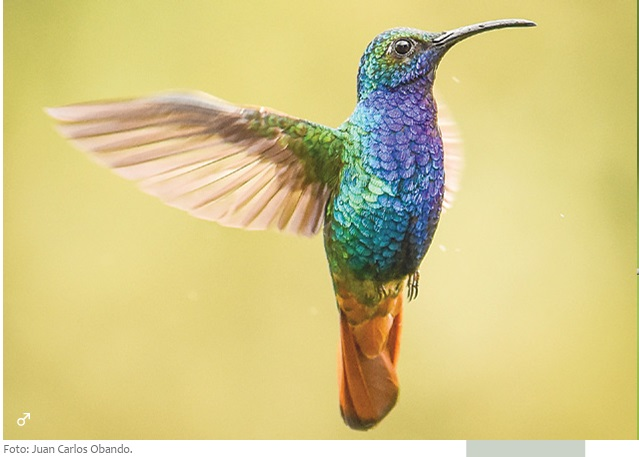
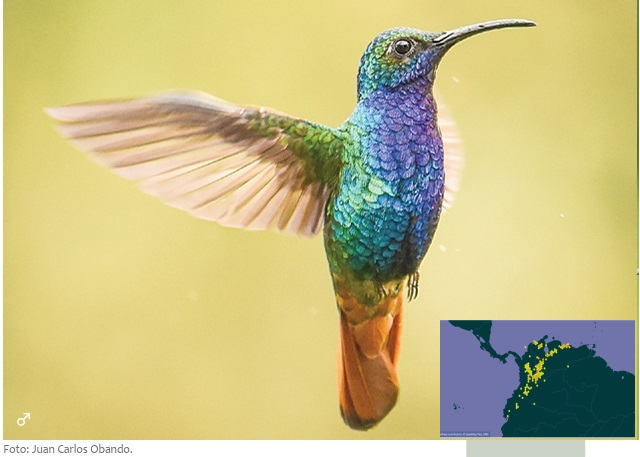
Optimizacion de pagina web de inicio

diff --git a/index.html b/index.html
@@ -11,7 +11,11 @@
 <body>
 	<header id="cabeceraweb">
 
-		<h1>BirdCode - Bioinformática y bilinguismo en educación básica</h1>
+		<!--<figure>
+			<img src="Imagenes/BirdCode-logo.png"/>
+		</figure>-->
+
+		<h1>BirdCode - Bioinformática y bilingüismo en educación básica</h1>
 		<p id="Idioma"><a href="Home.html" target="_blank">English</a></p>
 		
 	</header>
@@ -48,19 +52,56 @@
 
 		<article>
 
-			<header>
-				<h2>Valor económico de la biodiversidad</h2>
-			</header>
-
-			<p>La biota y los ecosistemas representan una forma de riqueza, la riqueza biológica. Así, la variedad de genes, especies, comunidades, ecosistemas y paisajes conforman la biodiversidad de la tierra, la cual sostiene a la vida humana y sus actividades económicas. Por varias décadas, el desarrollo económico ha sido una de las causas del deterioro del planeta, con la consecuente pérdida de diversidad biológica. Los recursos que se obtienen de la explotación de bosques, mares, tierras cultivadas, fauna silvestre y extracción de principios activos de medicamentos, entre otros, han sido fundamentales en la construcción del mundo actual. Es hasta muy recientemente que se ha tomado consciencia acerca de la importancia que tienen los servicios que presta la biodiversidad con relación a la regulación del clima, agua, suelos, nutrientes, curso de los ciclos biogeoquímicos, control de plagas, procesos de polinización, etc. De ahí que se haya tenido que analizar la problemática y realizar propuestas sobre el valor económico de la biodiversidad, las cuales serán sin duda insumos fundamentales en la toma de decisiones en el mercado internacional y la conservación de la naturaleza.</p>
-
-			<p>En la actualidad se le ha dado un valor económico a la biodiversidad desde varias perspectivas (Cox, 2000; Primack y otros, 2001; Groom y otros, 2006); en principio, este valor se dividió en dos grandes grupos, el intrínseco o inherente y el instrumental o utilitario. El valor utilitario se puede atribuir al aporte de bienes, servicios, información y beneficios psico-espirituales. Leer mas <a href="Biodiversidad.html" target="_blank">Aquí</a></p>
 
 			
+			<figure id="ImagenInicio">
+				
+				<img src="Imagenes/Espeletia.png"/>
+
+
+			</figure>
+
+
+
+		</article>
+
+
+
+
+
+
+
+
+
+
+
+
+		<article id="ProyectoBirdCode">
+
+			<header>
+				<h2>EL PROYECTO BIRDCODE</h2>
+			</header>
+
+			<p>El Proyecto BirdCode es una iniciativa de investigación enfocada en el diseño, estructuración, desarrollo y presentación de un conjunto de estrategias conceptuales y metodológicas, con el fin de ofrecer a la comunidad educativa de Colombia y el mundo un modelo de flujos de trabajo y actividades para la construcción de competencias académicas y laborales en tecnologías, desarrollo de software y construcción de bases de datos espaciales por parte de docentes y estudiantes de educación secundaria y media. El uso de datos abiertos y la construcción de bases de datos constituyen la estrategia principal sobre la cual se desarrolla todo el Proyecto. Los conjuntos de datos disponibles de manera libre en internet que se propone integrar dentro del Proyecto BirdCode corresponden a la información temática de registros de especies de flora y fauna en los territorios y alrededor del globo; este enfoque de trabajo sobre los datos de biodiversidad se hace teniendo en cuenta la importancia estratégica de la conservación y aprovechamiento de estos recursos para el crecimiento económico, la generación de oportunidades laborales, la producción de bienes, servicios e información y el impulso de actividades productivas en las comunidades que contribuyan a la construcción de conocimiento colectivo sobre biodiversidad que capaciten a las nuevas generaciones, a nivel individual y colectivo, tanto en la conservación de esta riqueza como en la exploración de opciones de emprendimiento que combinen temas como la tecnología, el valor económico de la biodiversidad, los servicios turísticos de naturaleza, el aprovechamiento de los recursos de flora y fauna para la agricultura y la industria y el bilinguismo.</p>
+
+			
+
+		</article>
+
+		
+
+		<article id="veb">
+
+			<header>
+				<h2>VALOR ECONÓMICO DE LA BIODIVERSIDAD</h2>
+			</header>
+
+			<p>La biota y los ecosistemas representan una forma de riqueza, la riqueza biológica. Así, la variedad de genes, especies, comunidades, ecosistemas y paisajes conforman la biodiversidad de la tierra, la cual sostiene a la vida humana y sus actividades económicas. Por varias décadas, el desarrollo económico ha sido una de las causas del deterioro del planeta, con la consecuente pérdida de diversidad biológica. Los recursos que se obtienen de la explotación de bosques, mares, tierras cultivadas, fauna silvestre y extracción de principios activos de medicamentos, entre otros, han sido fundamentales en la construcción del mundo actual. Es hasta muy recientemente que se ha tomado consciencia acerca de la importancia que tienen los servicios que presta la biodiversidad con relación a la regulación del clima, agua, suelos, nutrientes, curso de los ciclos biogeoquímicos, control de plagas, procesos de polinización, etc. De ahí que se haya tenido que analizar la problemática y realizar propuestas sobre el valor económico de la biodiversidad, las cuales serán sin duda insumos fundamentales en la toma de decisiones en el mercado internacional y la conservación de la naturaleza. En la actualidad se le ha dado un valor económico a la biodiversidad desde varias perspectivas (Cox, 2000; Primack y otros, 2001; Groom y otros, 2006); en principio, este valor se dividió en dos grandes grupos, el intrínseco o inherente y el instrumental o utilitario. El valor utilitario se puede atribuir al aporte de bienes, servicios, información y beneficios psico-espirituales. Leer mas <a href="Biodiversidad.html" target="_blank">Aquí</a></p>
 
 			<p>Fuente: <cite>Meléndez Ramirez V. Valor económico de la biodiversidad. Biodiversidad y desarrollo humano en Yucatán. </cite></p>
 			
 		</article>
+
 
 		<article>
 
@@ -68,7 +109,7 @@
 				<h2></h2>
 			</header>
 
-			<figure>
+			<figure id="FiguraColibri">
 				
 				<img src="Imagenes/CampyloterusFalcatus.jpg"/>
 
@@ -78,8 +119,15 @@
 					<p>Especie: <em>Campilopterus falcatus (Swainson, 1821)</em></p>
 					<p>Nombre comun: Ala de sable violeta</p>
 					<p>Vernacular name: Lazuline sabrewing</p>
+					<p>En Français: Campyloptère lazulite</p>
+					<p>Auf Deutsch: Lasur-Säbelflügel</p>
 					<p>在中文: 棕尾刀翅蜂鸟</p>
 					<p>pinyin: Zōng wěi dāo chì fēngniǎo</p>
+					<p>Estado de conservación: Preocupación Menor</p>
+					<p>Rango de distribución altitudinal: 500 - 2600 msnm</p>
+					<p>Distribución: Casi endémica - Especie de importancia para el aviturismo</p>
+					<p>Ecología: Nectarivoro</p>
+					<p>Hábitat: selvas de montaña de Colombia, Ecuador y Venezuela</p>
 					
 				</header>
 
@@ -87,14 +135,16 @@
 
 		</article>
 
+		
+
 		<article id="GBIF">
-			<header>
-				<h2>GBIF - Sistema Global de Información sobre Biodiversidad</h2>
+			<header id="TituloGBIF">
+				<h2>GBIF - SISTEMA GLOBAL DE INFORMACIÓN SOBRE BIODIVERSIDAD</h2>
 			</header>
 
-			<p>El Sistema Global de Información sobre Biodiversidad -GBIF por sus siglas en inglés- es una red internacional e infraestructura de datos financiada por los gobiernos del mundo para dar a cualquiera, en cualquier lugar, acceso abierto a datos sobre todas las formas de vida sobre la tierra</p>
+			<!--<p>El Sistema Global de Información sobre Biodiversidad -GBIF por sus siglas en inglés- es una red internacional e infraestructura de datos financiada por los gobiernos del mundo para dar a cualquiera, en cualquier lugar, acceso abierto a datos sobre todas las formas de vida sobre la tierra. La red GBIF de países —que se estructuran como nodos— y organizaciones participantes, está coordinada a través de su Secretaría en Copenhague y proporciona a las instituciones proveedoras de datos de todo el mundo estándares comunes y herramientas de código abierto que les permiten compartir información sobre dónde y cuándo se han registrado las especies. Este conocimiento procede de diversas fuentes, que incluyen desde especímenes de museos recogidos en los siglos XVIII y XIX hasta fotografías de teléfonos inteligentes geoetiquetadas y compartidas por naturalistas aficionados en los últimos días y semanas. La red de GBIF organiza todas esas fuentes mediante el uso del estándar Darwin Core, que constituye la base del índice GBIF.org de cientos de millones de registros de especies. Los proveedores ofrecen acceso abierto a sus juegos de datos eligiendo del listado de distintos tipos de licencias Creative Commons, lo que permite a los científicos, investigadores y otros usuarios aplicar o usar los datos cada año en cientos de publicaciones revisadas por colegas o para documentos de política. La Secretaría de GBIF prepara un programa de trabajo anual dentro de un marco estratégico de cinco años que recibe la revisión y aprobación de la Junta de Gobierno de GBIF. GBIF surgió de una recomendación de 1999 del Subgrupo de Informática de Biodiversidad del Foro Megascience de la Organización para la Cooperación y el Desarrollo Económico. Este informe concluyó que "se necesita un mecanismo internacional para hacer que los datos y la información sobre biodiversidad sean accesibles en todo el mundo", argumentando que este mecanismo podría generar muchos beneficios económicos y sociales, y permitir un desarrollo sostenible al proporcionar una evidencia científica sólida. El grupo de trabajo de la OCDE recomendó específicamente el establecimiento de un Fondo Mundial de Información sobre Biodiversidad, para:</p>-->
 
-			<iframe id="VideoGBIF" width="560" height="315" src="https://www.youtube.com/embed/HvS6sRVZbHo?si=UYYGpZCotFWReENU" title="YouTube video player" frameborder="0" allow="accelerometer; autoplay; clipboard-write; encrypted-media; gyroscope; picture-in-picture; web-share" allowfullscreen></iframe>
+			<iframe id="VideoGBIF" width="760" height="515" src="https://www.youtube.com/embed/HvS6sRVZbHo?si=UYYGpZCotFWReENU" title="YouTube video player" frameborder="0" allow="accelerometer; autoplay; clipboard-write; encrypted-media; gyroscope; picture-in-picture; web-share" allowfullscreen></iframe>
 
 		</article>
 

diff --git a/mihojadeestilos.css b/mihojadeestilos.css
@@ -1,8 +1,15 @@
+body{
+	margin-left: -10px;
+	margin-right: -10px;
+}
+
+
 #cabeceraweb{
-	background-color: #c77628;
+	background-color: #0d0685;
 	padding-left: 320px;
 	padding-top: 10px;
 	padding-bottom: 10px;
+	color: #ffffff;
 }
 
 #barra_navegacion{
@@ -29,6 +36,7 @@
 	background-color: #59602c;
 	clear: both;
 	margin-top: 30px;
+	padding-left: 20px;
 }
 
 li{
@@ -36,10 +44,15 @@ li{
 	display: inline;
 }
 
-figure{
-	padding-left: 10px;
-	margin-top: 50px;
-	background-color: #afecd3;
+#FiguraColibri{
+	padding-left: 50px;
+	margin-top: -20px;
+	background-color: #5a5018;
+	padding-top: 10px;
+	padding-bottom: 10px;
+	margin-left: -10px;
+	margin-right: -10px;
+	margin-bottom: 0px;
 	
 }
 
@@ -47,26 +60,76 @@ figure{
 	float: right;
 
 	padding-top: 20px;
-	padding-right: 180px;
+	padding-right: 240px;
+	font-size: 16px;
+	color: #ffffff;
+
 
 	
 }
 
 #VideoGBIF{
-	padding-left: 420px;
-	padding-top: 10px;
+	/*float: right;*/
+	padding-left: 380px;
+	padding-bottom: 40px;
+	
+	
 }
 
-#GBIF{
-	padding-top: 10px;
+/*#GBIF{
+	margin-top: 0px;
+	padding-top: 30px;
 	padding-bottom: 30px;
-	padding-left: 10px;
-	padding-right: 10px;
+	padding-left: 360px;
+	padding-right: 50px;
 	background-color: #ee4a08;
+	margin-left: -10px;
+	margin-right: -10px;
+	text-align: justify;
+}*/
+
+#TituloGBIF{
+	padding-top: 40px;
+	padding-left: 350px;
+	padding-bottom: 30px;
 }
 
 #Idioma{
 	float: right;
 	padding-right: 20px;
 	padding-top: 40px;
+}
+
+#veb{
+	padding-left: 200px;
+	padding-right: 200px;
+	padding-top: 20px;
+	padding-bottom: 20px;
+	text-align: justify;
+	background-color: #dededc;
+	margin-left: -10px;
+	margin-right: -10px;
+	color: #7b7b78;
+}
+
+#ProyectoBirdCode{
+	padding-left: 200px;
+	padding-right: 200px;
+	padding-top: 20px;
+	padding-bottom: 30px;
+	margin-top: -20px;
+	margin-left: -10px;
+	margin-right: -10px;
+	margin-bottom: -10px;
+	text-align: justify;
+	background-color: #095e83;
+	color: #ffffff;
+
+}
+
+#ImagenInicio{
+	margin-left: -10px;
+	margin-right: -10px;
+	margin-bottom: -10px;
+	background-color:;
 }

diff --git a/Home.html b/Home.html
@@ -14,7 +14,7 @@
 
 	<header id="cabeceraweb">
 
-		<h1>Bioinformatics and bilingualism in middle and high school</h1>
+		<h1>BirdCode - Bioinformatics and bilingualism in middle and high school</h1>
 		<p id="Idioma"><a href="index.html" target="_blank">Español</a></p>
 		
 	</header>
